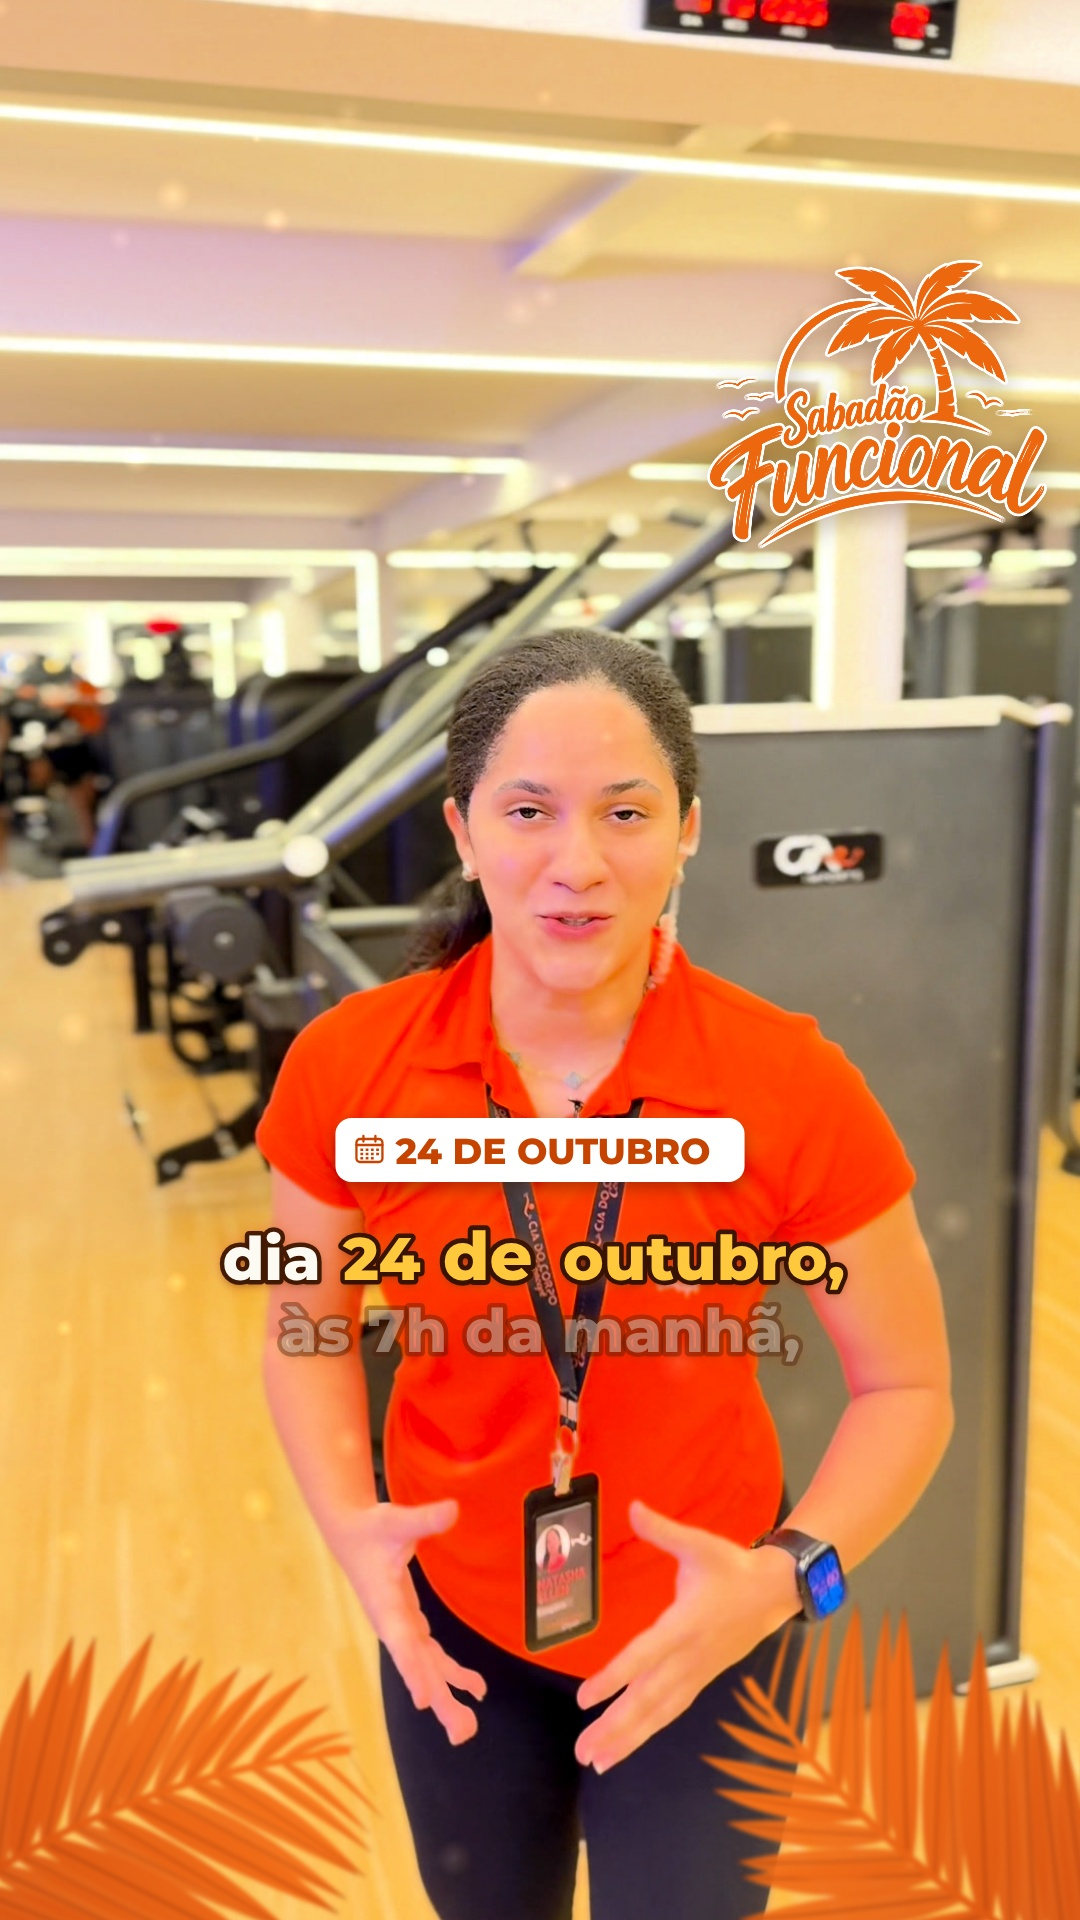
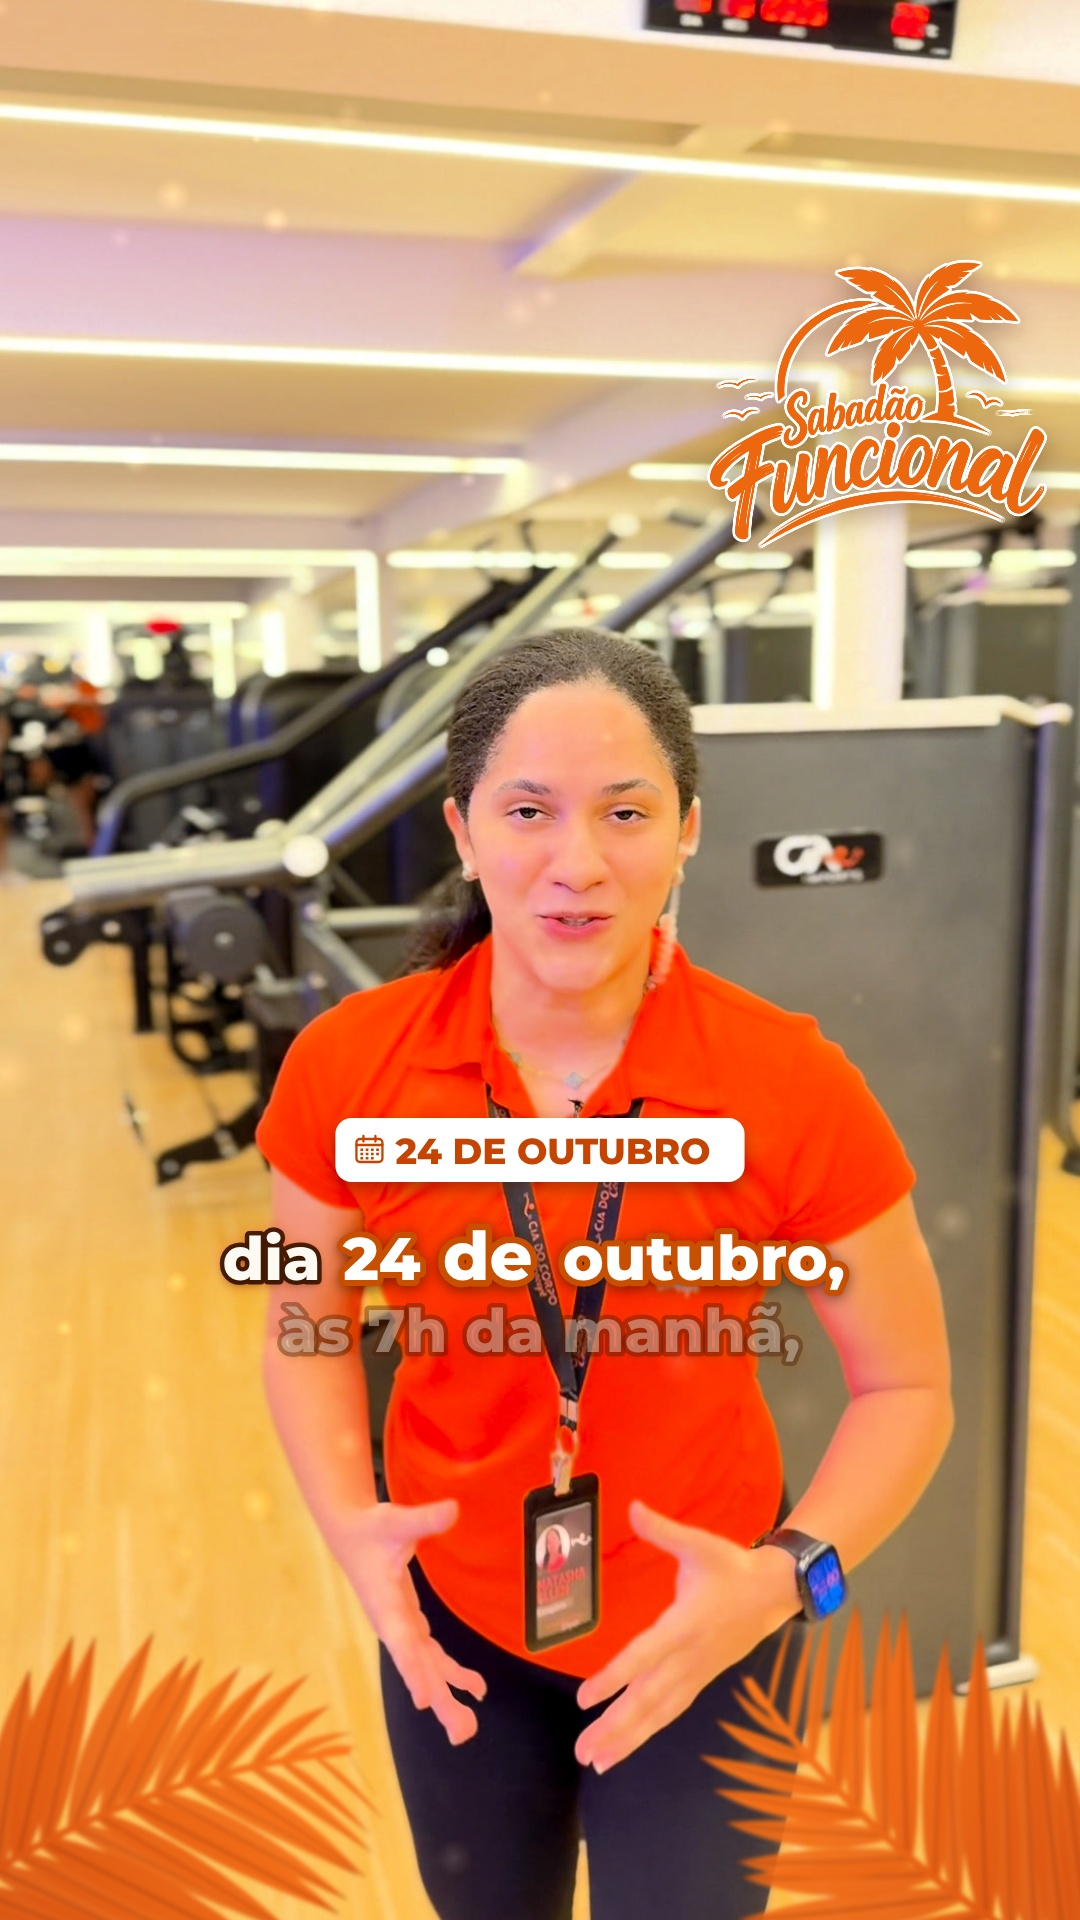
Reel keywords: white letter with orange outline
Claude-Session: https://claude.ai/code/session_01Dn6hQhGwoSvayfpcAMo7Gh

Changed region(s): [[0.3056, 0.625, 0.7944, 0.6875]]

diff --git a/video/sabadao-funcional/project/js/reel.js b/video/sabadao-funcional/project/js/reel.js
@@ -213,18 +213,32 @@
         g.globalAlpha = a;
         g.translate(cx, y);
         g.scale(s, s);
-        // soft orange glow (model) + dark outline (contrast on the orange shirts)
-        g.shadowColor = "rgba(230,100,30,0.55)";
-        g.shadowBlur = 16;
-        g.strokeStyle = key && spoken ? "#3d1604" : "#4a1e05";
-        g.lineWidth = 9;
         g.textAlign = "center";
-        g.strokeText(txt, 0, 0);
-        g.shadowColor = "rgba(40,12,0,0.45)";
-        g.shadowBlur = 10;
-        g.shadowOffsetY = 4;
-        g.fillStyle = key && spoken ? "#FFC83D" : "#FDF9F3";
-        g.fillText(txt, 0, 0);
+        if (key && spoken) {
+          // keyword: white letter, orange outline (brand burnt orange, 4.6:1
+          // against the white), soft dark halo outside so it holds on the shirts
+          g.shadowColor = "rgba(45,15,0,0.6)";
+          g.shadowBlur = 14;
+          g.shadowOffsetY = 3;
+          g.strokeStyle = "#C84E00";
+          g.lineWidth = 12;
+          g.strokeText(txt, 0, 0);
+          g.shadowColor = "transparent";
+          g.fillStyle = "#FFFFFF";
+          g.fillText(txt, 0, 0);
+        } else {
+          // soft orange glow (model) + dark outline (contrast on the orange shirts)
+          g.shadowColor = "rgba(230,100,30,0.55)";
+          g.shadowBlur = 16;
+          g.strokeStyle = "#4a1e05";
+          g.lineWidth = 9;
+          g.strokeText(txt, 0, 0);
+          g.shadowColor = "rgba(40,12,0,0.45)";
+          g.shadowBlur = 10;
+          g.shadowOffsetY = 4;
+          g.fillStyle = "#FDF9F3";
+          g.fillText(txt, 0, 0);
+        }
         g.restore();
         x += widths[wi] + space;
       });
